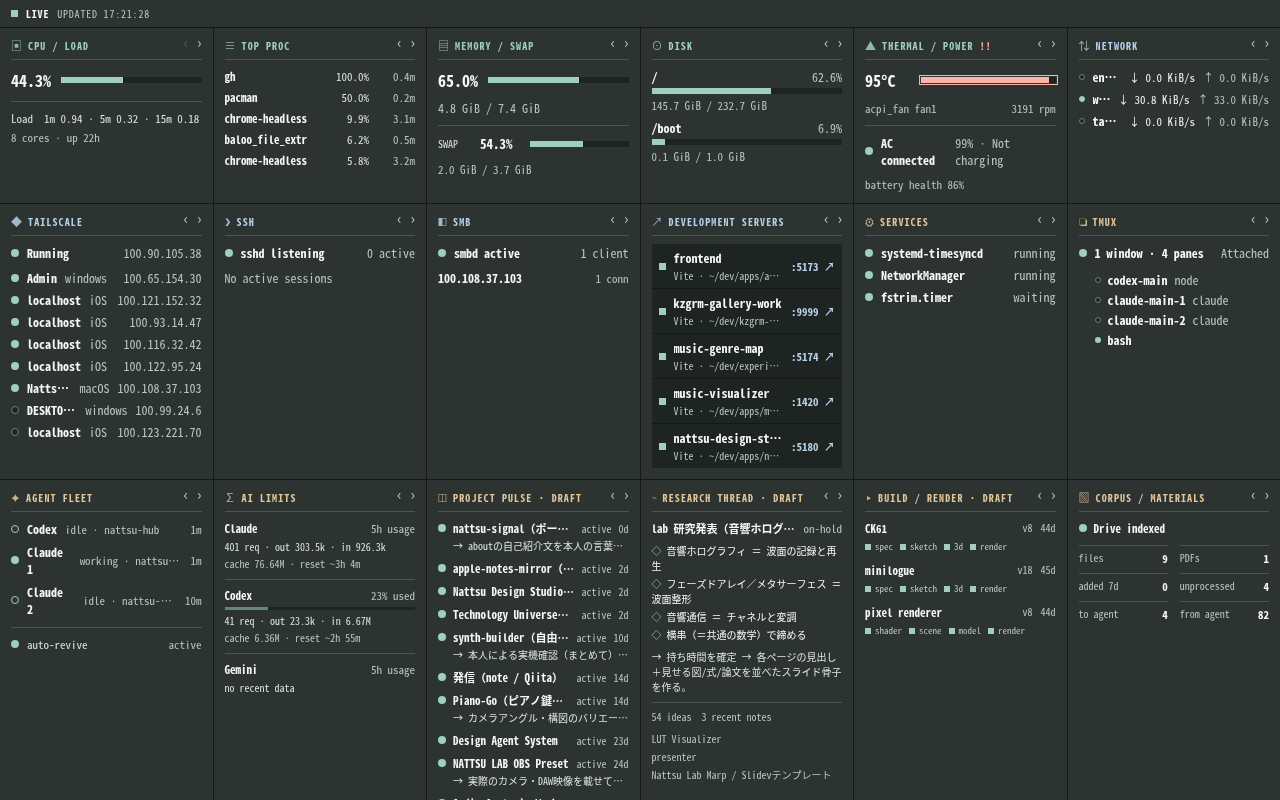
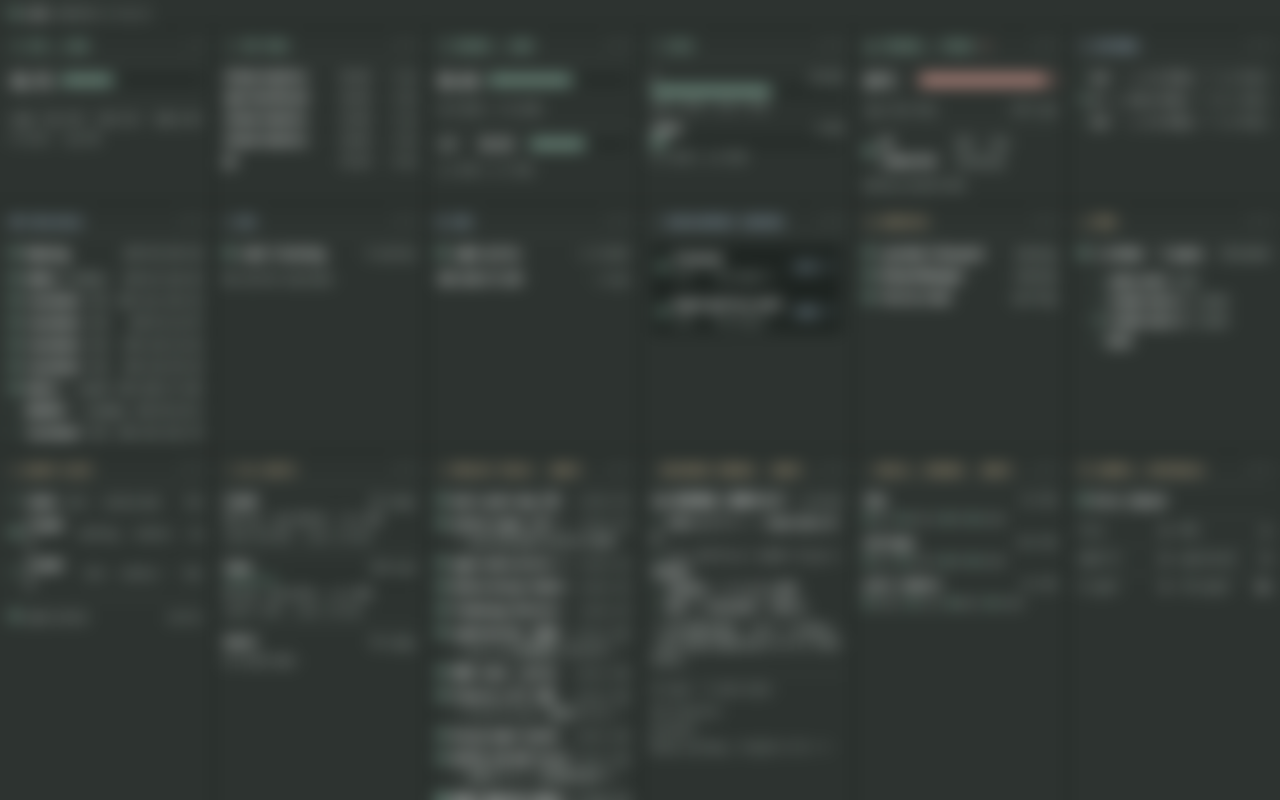
fix: arch-dashboardのぼかしを画像自体に焼き込み、強度を調整
CSSのfilter:blur()はダウンロードした元画像では見えてしまうため、PIL(GaussianBlur
radius=8)で画像ファイル自体に焼き込む方式へ変更。blurImageフィールド・CSSクラスは
不要になったため削除。強度もCSS版(blur 6px+scale)より弱めた。
kzgrm-galleryをfeatured: trueにしてhomeにも表示。

diff --git a/src/content.config.ts b/src/content.config.ts
@@ -11,7 +11,6 @@ const opus = defineCollection({
     image: z.string(),
     date: z.coerce.date(),
     featured: z.boolean().default(false),
-    blurImage: z.boolean().default(false),
     org: z.enum(['nattsu', 'kzgrm']).default('nattsu'),
   }),
 });

diff --git a/src/styles/global.css b/src/styles/global.css
@@ -229,11 +229,6 @@ a {
   display: block;
 }
 
-.opus-card .thumb img.thumb-blurred {
-  filter: blur(6px);
-  transform: scale(1.08);
-}
-
 .opus-card .body {
   padding: 0.9rem 1rem 1.1rem;
   display: flex;

diff --git a/src/content/opus/kzgrm-gallery.md b/src/content/opus/kzgrm-gallery.md
@@ -5,6 +5,6 @@ description: "かざぐるまサークルの公開ギャラリーサイト。作
 link: "https://kzgrm.github.io/kzgrm-gallery/"
 image: "/opus/kzgrm-gallery.png"
 date: 2026-08-26
-featured: false
+featured: true
 org: kzgrm
 ---

diff --git a/src/content/opus/arch-dashboard.md b/src/content/opus/arch-dashboard.md
@@ -5,5 +5,4 @@ description: "研究機(Arch Linux)のCPU/メモリ/温度/ネットワークか
 image: "/opus/arch-dashboard.png"
 date: 2026-08-26
 featured: false
-blurImage: true
 ---
